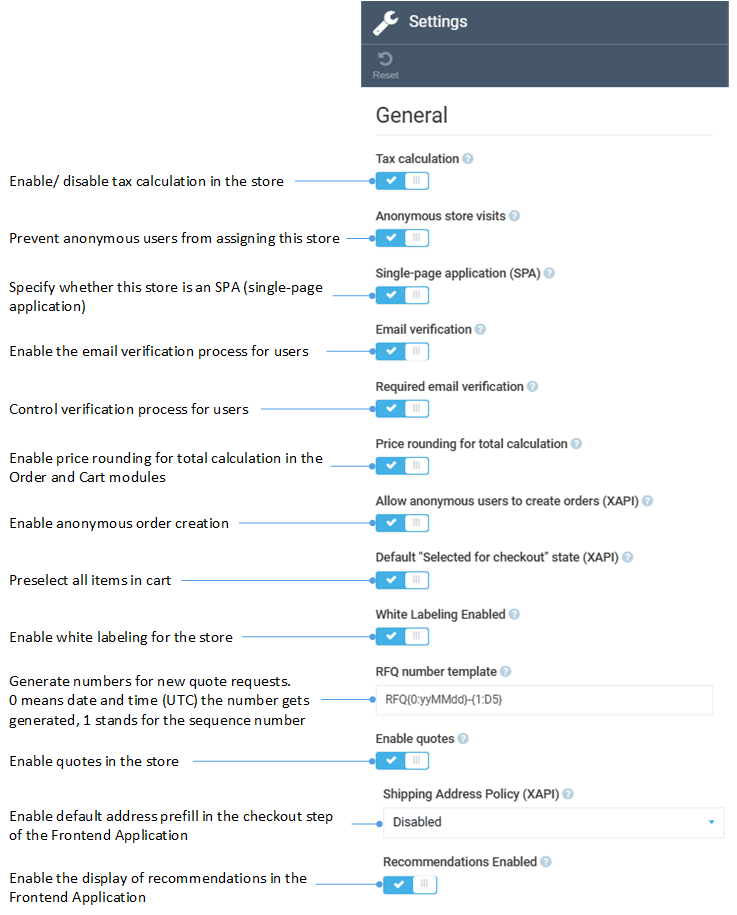
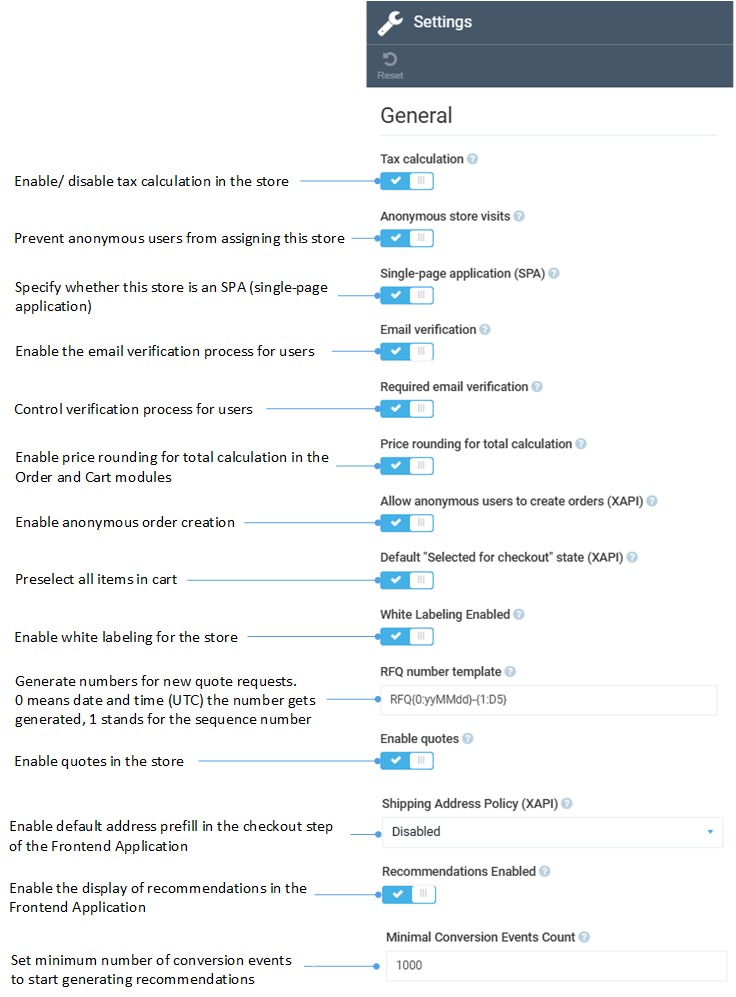
Added Color Scheme application and  Minimum number of conversion events

Changed region(s): [[0.0, 0.0, 1.0, 1.0]]

diff --git a/platform/user-guide/docs/content/managing-themes.md b/platform/user-guide/docs/content/managing-themes.md
@@ -1,6 +1,6 @@
 # Themes
 
-The Virto Commerce Theme is a frontend application for your ecommerce websites. The default Theme is included in the VC Content module and is provided out of the box. The default theme consists of the following folders with files that define the Storefront UI:
+The Virto Commerce Theme is a frontend application for your ecommerce websites. The default Theme is included in the VC Content module and is provided out of the box. The default theme consists of the following folders with files that define the Frontend Application UI:
 
 | Folder        	| Content                                                                                                    	|
 |---------------	|------------------------------------------------------------------------------------------------------------	|
@@ -13,49 +13,37 @@ The Virto Commerce Theme is a frontend application for your ecommerce websites. 
 
 The theme structure should be predefined in advance and is created by a developer.
 
-The Virto Commenrce Content module allows you to:
+The Virto Commerce Content module allows you to:
 
 * Add as many themes as needed.
-* Set an active theme to be displayed on the Storefront.
+* Set an active theme to be displayed in the Frontend Application.
 
 Managing theme includes:
 
-* [Adding new theme.](managing-themes.md#add-new-theme)
 * [Uploading new theme.](managing-themes.md#upload-new-theme)
 * [Activating theme.](managing-themes.md#activate-theme)
 * [Managing theme assets.](managing-themes.md#manage-theme-assets)
+* [Adding new theme.](managing-themes.md#add-new-theme)
 * [Managing theme color configurations.](managing-themes.md#manage-theme-color-configurations)
 
-## Add new theme
-
-To add a new theme:
-
-1. Click **Content** in the main menu.
-1. In the nest blade, select the store from the list.
-1. Click on the **Themes** widget.
-1. In the **Themes list** blade, click **Add** in the toolbar. 
-1. Enter the name of the new theme. 
-1. Click **Create** to create your new theme. 
-
-![add new theme](media/add-new-theme.png)
-
-The new theme appears it in the themes list.
 
 ## Upload new theme
 
-To upload a theme zip file:
+To upload a theme ZIP file:
 
 1. Click **Content** in the main menu.
 1. Select the store from the list in the next blade.
 1. Click on the **Themes** widget.
 1. In the **Themes list** blade, click **Upload** in the toolbar. 
-1. Drag and drop or browse the zip file. 
+1. Drag and drop or browse the ZIP file. 
 
-![upload new theme](media/upload-new-theme.png)
+![Upload new theme](media/upload-new-theme.png)
 
 Once the zip file has been uploaded, it will be unzipped and added to the Themes list.
 
-If a new theme has been created by the developer, it can be uploaded to a new environment using a zip file.
+If a new theme has been created by the developer, it can be uploaded to a new environment using a ZIP file.
+
+You can use the themes designed by Virto Commerce. Each Frontend Application release contains a :!!!!!!!!!!!!!!!!!!!!!!!!!
 
 ## Activate theme
 
@@ -80,13 +68,38 @@ To manage the theme assets:
 
 ![assets](media/manage-assets.png)
 
-## Manage theme color configurations
+## Add new theme
 
-You can use ready-made color configurations that can be applied to the theme, or you can create your own color scheme using ChatGPT:
+To add a new theme:
 
-![Color schemas](media/color-scheme.gif)
+1. Click **Content** in the main menu.
+1. In the nest blade, select the store from the list.
+1. Click on the **Themes** widget.
+1. In the **Themes list** blade, click **Add** in the toolbar. 
+1. Enter the name of the new theme. 
+1. Click **Create** to create your new theme. 
 
-To add a new color configuration:
+![add new theme](media/add-new-theme.png)
+
+The new theme appears in the themes list. Now it needs to filled in.
+
+## Manage theme colors
+
+Users can personalize their store by applying a custom theme or choosing from the ready-to-use color schemes designed by Virto Commerce. Each release includes a set of default color presets, with new ones added several times a year. To access the latest default color presets, users can simply download the updated theme. Currently, the following out-of-the-box color schemes can be applied to your store:
+
+=== "purple-pink"
+
+    ![purple-pink](media/purple.png)
+
+=== "black-gold"
+
+    ![Black](media/black.png)
+
+=== "watermelon"
+
+    ![Watermelon](media/watermelon.png)
+
+Alternatively, you can [create your own color scheme using ChatGPT](#create-theme-colors-using-chatgpt) and add it to the themes presets as follows:
 
 1. Click **Content** in the main menu.
 1. Select the store from the list in the next blade.
@@ -95,14 +108,26 @@ To add a new color configuration:
 1. In the next blade, click **config** --> **presets**.
 1. Click **Add** in the toolbar to enter or copy&paste your new color configuration file. Or click **Upload** to upload color configuration file.
 
-New color configuration has been applied.
+New color scheme has been added to the presets.
 
+To apply a new color scheme to your store:
 
-### Create theme colors via ChatGPT
+1. Select one of the out-of-the-box color schemes or your custom scheme and copy its name without extension to the clipboard (for example, **watermelon**):
+1. Go to **Stores** --> Your store --> **White labeling**.
+1. In the **White labeling** blade, click ![Pencil](media/pencil.png){: width="25"} next to the **Theme preset name**.
+1. In the next blade, click **Add** in the toolbar.
+1. Paste the filename to the new field and click ![Floppy](media/floppy.png){: width="25"} to save the changes.
+1. Click **Save** in the toolbar.
+1. In the previous blade, select the newly added theme from the dropdown list. 
+1. Click **Save** in the toolbar. 
+
+Your new color scheme has been applied.
+
+### Create theme colors using ChatGPT
 
 1. Copy any existing color scheme.
 1. Paste it into ChatGPT with the following prompt: "Generate colors for an electronic shop. Answer in JSON format."
-1. Copy the generated color scheme and paste it into the **presets** folder as described [above](managing-themes.md#manage-theme-color-configurations).
+1. Copy the generated color scheme and paste it into the **presets** folder as described [above](#manage-theme-colors).
 
-Your ChatGPT-generated colors have been added.
+Your ChatGPT-generated colors have been added to the presets.
 

diff --git a/platform/user-guide/docs/recommend/settings.md b/platform/user-guide/docs/recommend/settings.md
@@ -1,0 +1,18 @@
+# Settings
+
+To open the settings of the Recommendations module:
+
+1. Click **Settings** in the main menu.
+1. In the search field of the next blade, type **Recommendations** to find the settings related to the module.
+1. Click **Recommendations** to open the available settings.
+1. Click **General** to configure the following settings:
+    * **Minimum number of conversion events**: Defines the minimum number of conversion events (such as purchases, add-to-cart actions, or other tracked customer behaviors) required before the Recommendations module starts generating personalized product recommendations. Enter 0 to disable the limit. Recommendations will start immediately but may lack precision due to insufficient data.
+    * **Recommendations enabled**: Enables the recommendations display in the Frontend Application:
+
+        ![Settings](media/settings.png)
+
+1. Click **Save** in the toolbar to save the changes.
+
+The settings have been configured.
+
+

diff --git a/platform/user-guide/docs/recommend/overview.md b/platform/user-guide/docs/recommend/overview.md
@@ -32,15 +32,3 @@ Although the xRecommend module does not have its own user interface, you need to
 * **Extensibility**: Support for extending the **related-products model** or adding custom algorithms.
 * **Integration Simplicity**: Toggle setting for enabling or disabling recommendations in your store.
 
-## Get started
-
-To enable recommendations display:
-
-1. Click **Stores** in the main menu.
-1. In the next blade, select the desired store.
-1. In the next blade, click on the **Settings** widget.
-1. In the next blade, switch **Recommendations Enabled** to on.
-
-    ![Recommendations on](media/enable-recommendations.png)
-
-The recommendations are displayed in the Frontend Application.

diff --git a/platform/developer-guide/docs/Getting-Started/Installation-Guide/store-branding.md b/platform/developer-guide/docs/Getting-Started/Installation-Guide/store-branding.md
@@ -60,7 +60,7 @@ To configure a custom color scheme:
         You can [create your own color scheme using ChatGPT](../../../../user-guide/content/managing-themes#create-theme-colors-via-chatgpt).
 
 1. Click **Create** to add the color scheme to the list.
-1. Copy the filename of your color scheme.
+1. Copy the filename of your color scheme without extension.
 1. Go to **Stores** --> Your store --> **White labeling**.
 1. In the **White labeling** blade, click ![Pencil](media/pencil.png){: width="25"} next to the **Theme preset name**.
 1. In the next blade, click **Add** in the toolbar.

diff --git a/platform/user-guide/docs/recommend/enable-recommendations.md b/platform/user-guide/docs/recommend/enable-recommendations.md
@@ -1,0 +1,15 @@
+# Enable Recommendations
+
+To enable recommendations display via the Store module:
+
+1. Click **Stores** in the main menu.
+1. In the next blade, select the desired store.
+1. In the next blade, click on the **Settings** widget.
+1. In the next blade, switch **Recommendations Enabled** to on.
+
+    ![Recommendations on](media/enable-recommendations.png)
+
+The recommendations are displayed in the Frontend Application.
+
+!!! note
+    You can enable the recommendations display via the [Recommendations module settings](settings.md).
